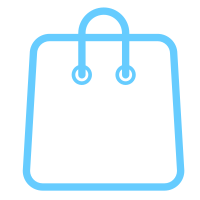
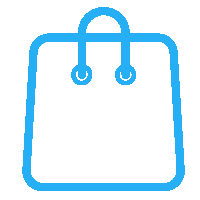
11.21

Changed region(s): [[0.09, 0.03, 0.93, 0.96]]

diff --git a/miniprogram/pages/userCenter/userFavors/userFavors.js b/miniprogram/pages/userCenter/userFavors/userFavors.js
@@ -9,256 +9,7 @@ Page({
     searchInput: '',
 
     //收藏商品列表
-    goodsList: [
-      {
-        "cmId": 1,
-        "name": "作业",
-        "classify": 5,
-        "details": "太多了辣",
-        "price": 9.9,
-        "userId": 1,
-        "address": 1,
-        "pictureUrls": [
-            "http://www.baidu.com"
-        ],
-        "date": "2020-11-10 00:59:59",
-        "isNew": 1,
-        "state": 0
-    },
-    {
-        "cmId": 2,
-        "name": "更多的作业",
-        "classify": 5,
-        "details": "我好开心，我开心得眼泪都要流出来了",
-        "price": 9.9,
-        "userId": 1,
-        "address": 1,
-        "pictureUrls": [
-            "http://www.baidu.com",
-            "http://www.google.com"
-        ],
-        "date": "2020-11-11 00:59:59",
-        "isNew": 1,
-        "state": 0
-    },
-    {
-      "cmId": 1,
-      "name": "作业",
-      "classify": 5,
-      "details": "太多了辣",
-      "price": 9.9,
-      "userId": 1,
-      "address": 1,
-      "pictureUrls": [
-          "http://www.baidu.com"
-      ],
-      "date": "2020-11-10 00:59:59",
-      "isNew": 1,
-      "state": 0
-  },
-  {
-      "cmId": 2,
-      "name": "更多的作业",
-      "classify": 5,
-      "details": "我好开心，我开心得眼泪都要流出来了",
-      "price": 9.9,
-      "userId": 1,
-      "address": 1,
-      "pictureUrls": [
-          "http://www.baidu.com",
-          "http://www.google.com"
-      ],
-      "date": "2020-11-11 00:59:59",
-      "isNew": 1,
-      "state": 0
-  },
-  {
-    "cmId": 1,
-    "name": "作业",
-    "classify": 5,
-    "details": "太多了辣",
-    "price": 9.9,
-    "userId": 1,
-    "address": 1,
-    "pictureUrls": [
-        "http://www.baidu.com"
-    ],
-    "date": "2020-11-10 00:59:59",
-    "isNew": 1,
-    "state": 0
-},
-{
-    "cmId": 2,
-    "name": "更多的作业",
-    "classify": 5,
-    "details": "我好开心，我开心得眼泪都要流出来了",
-    "price": 9.9,
-    "userId": 1,
-    "address": 1,
-    "pictureUrls": [
-        "http://www.baidu.com",
-        "http://www.google.com"
-    ],
-    "date": "2020-11-11 00:59:59",
-    "isNew": 1,
-    "state": 0
-},
-{
-  "cmId": 1,
-  "name": "作业",
-  "classify": 5,
-  "details": "太多了辣",
-  "price": 9.9,
-  "userId": 1,
-  "address": 1,
-  "pictureUrls": [
-      "http://www.baidu.com"
-  ],
-  "date": "2020-11-10 00:59:59",
-  "isNew": 1,
-  "state": 0
-},
-{
-  "cmId": 2,
-  "name": "更多的作业",
-  "classify": 5,
-  "details": "我好开心，我开心得眼泪都要流出来了",
-  "price": 9.9,
-  "userId": 1,
-  "address": 1,
-  "pictureUrls": [
-      "http://www.baidu.com",
-      "http://www.google.com"
-  ],
-  "date": "2020-11-11 00:59:59",
-  "isNew": 1,
-  "state": 0
-},
-{
-  "cmId": 1,
-  "name": "作业",
-  "classify": 5,
-  "details": "太多了辣",
-  "price": 9.9,
-  "userId": 1,
-  "address": 1,
-  "pictureUrls": [
-      "http://www.baidu.com"
-  ],
-  "date": "2020-11-10 00:59:59",
-  "isNew": 1,
-  "state": 0
-},
-{
-  "cmId": 2,
-  "name": "更多的作业",
-  "classify": 5,
-  "details": "我好开心，我开心得眼泪都要流出来了",
-  "price": 9.9,
-  "userId": 1,
-  "address": 1,
-  "pictureUrls": [
-      "http://www.baidu.com",
-      "http://www.google.com"
-  ],
-  "date": "2020-11-11 00:59:59",
-  "isNew": 1,
-  "state": 0
-},
-{
-  "cmId": 1,
-  "name": "作业",
-  "classify": 5,
-  "details": "太多了辣",
-  "price": 9.9,
-  "userId": 1,
-  "address": 1,
-  "pictureUrls": [
-      "http://www.baidu.com"
-  ],
-  "date": "2020-11-10 00:59:59",
-  "isNew": 1,
-  "state": 0
-},
-{
-  "cmId": 2,
-  "name": "更多的作业",
-  "classify": 5,
-  "details": "我好开心，我开心得眼泪都要流出来了",
-  "price": 9.9,
-  "userId": 1,
-  "address": 1,
-  "pictureUrls": [
-      "http://www.baidu.com",
-      "http://www.google.com"
-  ],
-  "date": "2020-11-11 00:59:59",
-  "isNew": 1,
-  "state": 0
-},
-{
-  "cmId": 1,
-  "name": "作业",
-  "classify": 5,
-  "details": "太多了辣",
-  "price": 9.9,
-  "userId": 1,
-  "address": 1,
-  "pictureUrls": [
-      "http://www.baidu.com"
-  ],
-  "date": "2020-11-10 00:59:59",
-  "isNew": 1,
-  "state": 0
-},
-{
-  "cmId": 2,
-  "name": "更多的作业",
-  "classify": 5,
-  "details": "我好开心，我开心得眼泪都要流出来了",
-  "price": 9.9,
-  "userId": 1,
-  "address": 1,
-  "pictureUrls": [
-      "http://www.baidu.com",
-      "http://www.google.com"
-  ],
-  "date": "2020-11-11 00:59:59",
-  "isNew": 1,
-  "state": 0
-},
-{
-  "cmId": 1,
-  "name": "作业",
-  "classify": 5,
-  "details": "太多了辣",
-  "price": 9.9,
-  "userId": 1,
-  "address": 1,
-  "pictureUrls": [
-      "http://www.baidu.com"
-  ],
-  "date": "2020-11-10 00:59:59",
-  "isNew": 1,
-  "state": 0
-},
-{
-  "cmId": 2,
-  "name": "更多的作业",
-  "classify": 5,
-  "details": "我好开心，我开心得眼泪都要流出来了",
-  "price": 9.9,
-  "userId": 1,
-  "address": 1,
-  "pictureUrls": [
-      "http://www.baidu.com",
-      "http://www.google.com"
-  ],
-  "date": "2020-11-11 00:59:59",
-  "isNew": 1,
-  "state": 0
-}
-    ],
+    goodsList: [],
   },
 
   /**
@@ -324,11 +75,11 @@ Page({
       success: function (res) {
         console.log('成功从后端获取收藏夹商品列表');
         console.log(res)
-        /*
+        
         that.setData({
           goodsList: res.data.commodityList,
         })
-        */
+        
         console.log(that.data.goodsList)
       },
       fail: function(error){

diff --git a/miniprogram/pages/goodsDetails/goodsDetails.js b/miniprogram/pages/goodsDetails/goodsDetails.js
@@ -42,6 +42,27 @@ Page({
     })
   },
 
+  /* 举报按钮事件 */
+  accuse: function(e){
+    console.log("举报该商品，商品id为：" + this.data.id)
+    var that = this;
+    wx.request({
+      url: 'http://maggiemarket.design:8080/api/commodity/accuse',
+      header: {
+        'content-type': 'application/json'
+      },
+      method: 'POST',
+      data:{
+        cmId: this.data.id,
+        userId: this.data.userId
+      },
+      //请求后台数据成功
+      success: function (res) {
+        console.log("举报商品请求" + res.data.errorCode)
+      }
+    })
+  },
+
   /* 收藏按钮事件 */
   collect: function(e){
     console.log("收藏该商品，商品id为：" + this.data.id)

diff --git a/miniprogram/app.js b/miniprogram/app.js
@@ -19,7 +19,9 @@ App({
       userId: '1',//用户id //测试个人资料请用“1”，测试我的收藏请用“2\3\4”，测试预订的请用“6\7”，测试买到的请用“4\5\6\7”，测试管理员端请用“1\2”
       userImageUrl: '../../../images/userImage.png',//用户头像 //测试请用“../../../images/userImage.png”
 
-      hasUserInfo: true,//用户登陆状态，测试登录功能请用“false”，测试其他请用“true”    
+      hasUserInfo: false,//用户登陆状态，测试登录功能请用“false”，测试其他请用“true”    
+
+      themeColor: "#27aff6",
     }
   }
 })
